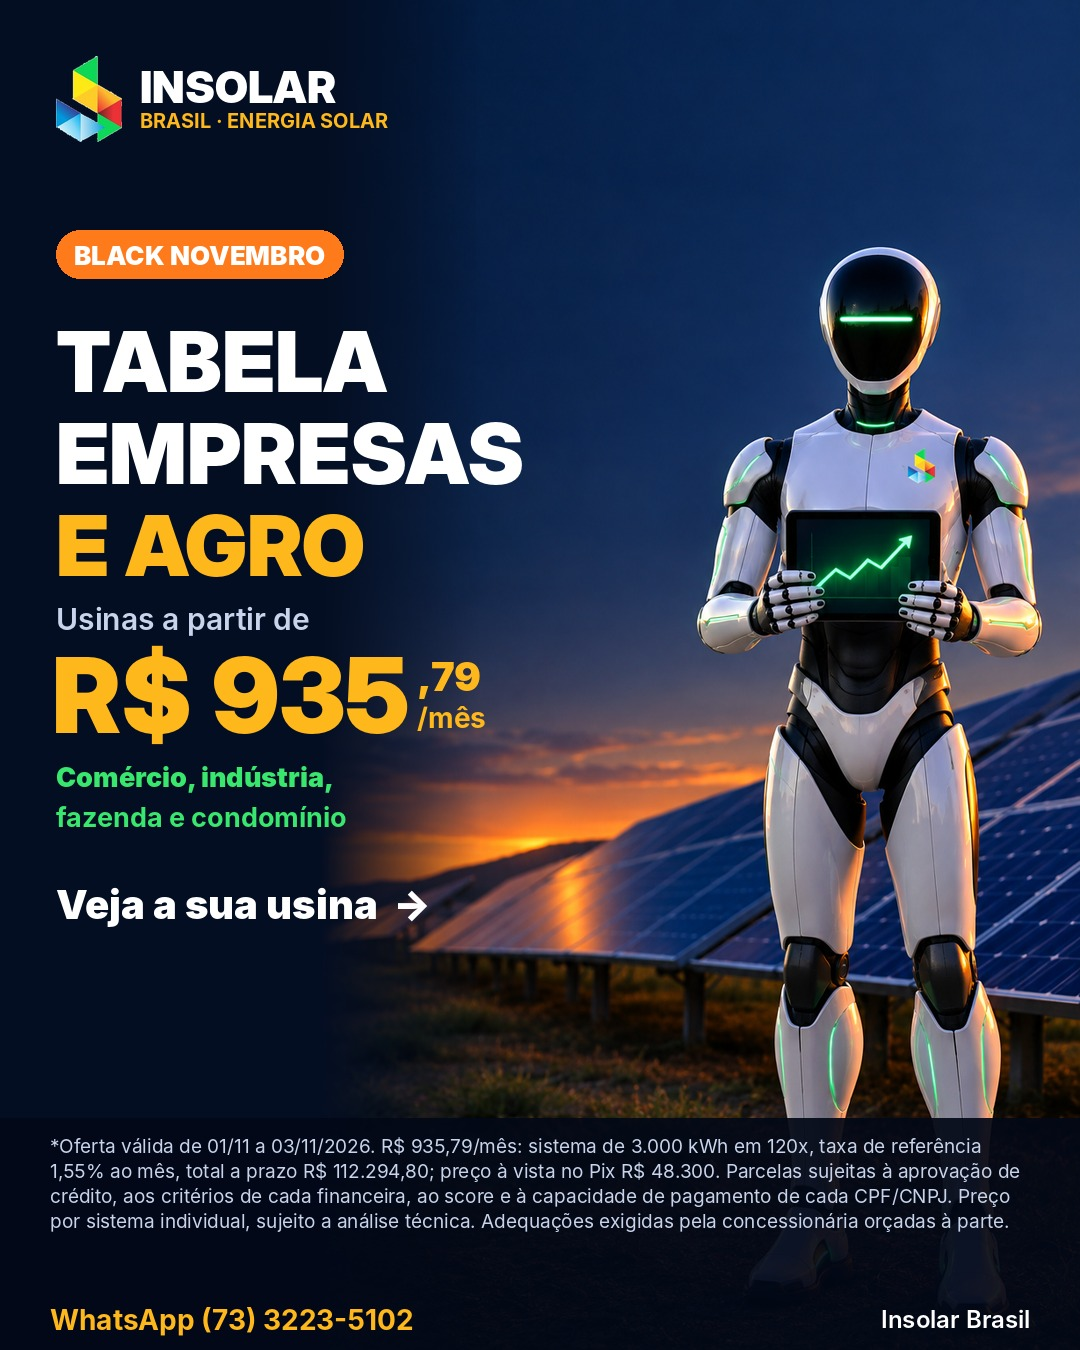
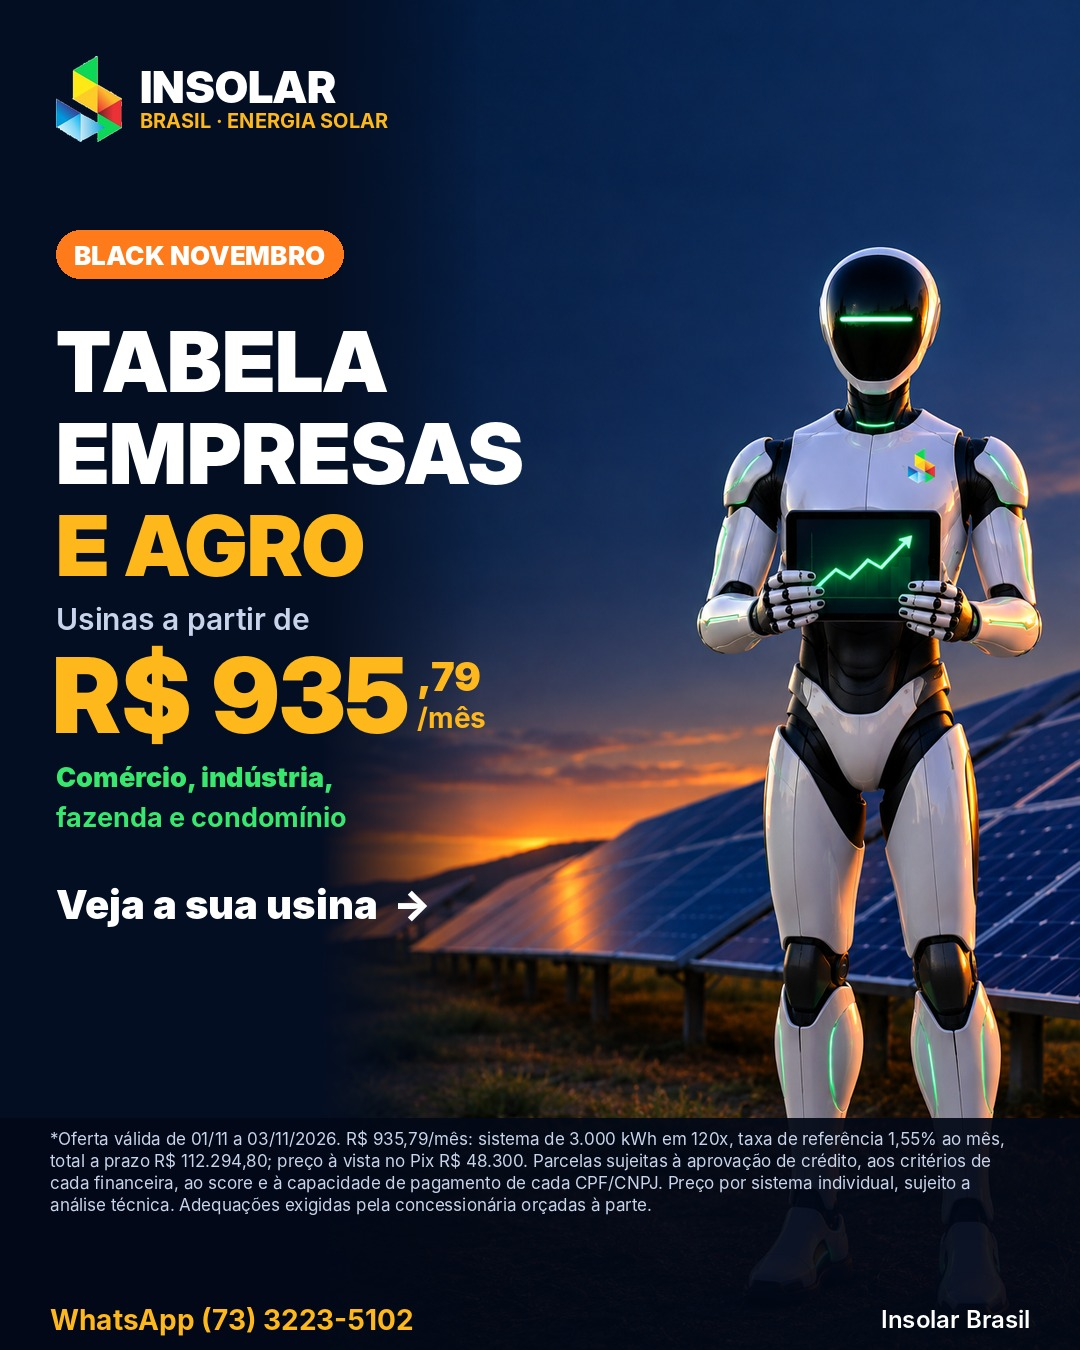
Empresas: 24x no cartão com juros e Cartão BNDES

Changed region(s): [[0.0306, 0.84, 0.9472, 0.9333]]

diff --git a/2026-11/precos/empresas_claro.py b/2026-11/precos/empresas_claro.py
@@ -45,9 +45,9 @@ def wrap(d,txt,f,maxw):
 def rodape(c,legal):
     ov=Image.new('RGBA',(W,H),(0,0,0,0)); od=ImageDraw.Draw(ov)
     od.rectangle([0,1118,W,H],fill=(2,8,22,235)); c.paste(ov,(0,0),ov)
-    d=ImageDraw.Draw(c); f=F('Inter-Regular.otf',19); y=1134
+    d=ImageDraw.Draw(c); f=F('Inter-Regular.otf',17); y=1128
     for ln in wrap(d,legal,f,W-100):
-        d.text((50,y),ln,font=f,fill=(200,212,235)); y+=25
+        d.text((50,y),ln,font=f,fill=(200,212,235)); y+=22
     d.text((50,H-48),'WhatsApp (73) 3223-5102',font=F('Inter-Bold.otf',28),fill=(255,184,28))
     d.text((W-50,H-46),'Insolar Brasil',font=F('Inter-SemiBold.otf',24),fill=(255,255,255),anchor='ra')
 
@@ -78,7 +78,9 @@ def card(n,k):
         y+=320
         d.text((X,y),'12x SEM JUROS no cartão',font=F('Inter-Black.otf',27),fill=GREEN)
         d.text((X,y+34),f"de R$ {brl(k['p12'])}",font=F('Inter-Bold.otf',30),fill=WHITE)
-        y+=96
+        d.text((X,y+72),'ou até 24x no cartão, com juros',font=F('Inter-SemiBold.otf',24),fill=SOFT)
+        d.text((X,y+100),'(aceitamos Cartão BNDES)',font=F('Inter-SemiBold.otf',24),fill=SOFT)
+        y+=146
     else:
         d.text((X,y),'12x SEM JUROS no cartão',font=F('Inter-Black.otf',30),fill=GREEN)
         fp=F('InterDisplay-Black.otf',112); inteiro,cent=brl(k['p12']).split(',')
@@ -97,7 +99,7 @@ def card(n,k):
     if k.get('p120'):
         legal+=(f"Parcelas sujeitas à aprovação de crédito, aos critérios de cada financeira, ao score e à capacidade de pagamento de cada CPF/CNPJ. "
                 f"Taxa de referência: 1,39% ao mês (24x a 84x) e 1,55% ao mês (120x); total em 120x: R$ {brl(k['p120']*120)}. ")
-    legal+=f"12x sem juros no cartão conforme limite disponível. Geração estimada de {k['kwh']:,} kWh por mês, varia com o local e a sombra.".replace(f"{k['kwh']:,}",f"{k['kwh']:,}".replace(',','.'))
+    legal+=f"12x sem juros no cartão conforme limite disponível; de 13x a 24x com juros da administradora do cartão; Cartão BNDES sujeito à aprovação do banco emissor. Geração estimada de {k['kwh']:,} kWh por mês, varia com o local e a sombra.".replace(f"{k['kwh']:,}",f"{k['kwh']:,}".replace(',','.'))
     rodape(c,legal)
     c.save(f'out/empresas_claro/{n:02d}_kit_{k["kwh"]}.jpg',quality=92)
 

diff --git a/2026-11/precos/empresas.py b/2026-11/precos/empresas.py
@@ -45,9 +45,9 @@ def wrap(d,txt,f,maxw):
 def rodape(c,legal):
     ov=Image.new('RGBA',(W,H),(0,0,0,0)); od=ImageDraw.Draw(ov)
     od.rectangle([0,1118,W,H],fill=(2,8,22,235)); c.paste(ov,(0,0),ov)
-    d=ImageDraw.Draw(c); f=F('Inter-Regular.otf',19); y=1134
+    d=ImageDraw.Draw(c); f=F('Inter-Regular.otf',17); y=1128
     for ln in wrap(d,legal,f,W-100):
-        d.text((50,y),ln,font=f,fill=SOFT); y+=25
+        d.text((50,y),ln,font=f,fill=SOFT); y+=22
     d.text((50,H-48),'WhatsApp (73) 3223-5102',font=F('Inter-Bold.otf',28),fill=GOLD)
     d.text((W-50,H-46),'Insolar Brasil',font=F('Inter-SemiBold.otf',24),fill=WHITE,anchor='ra')
 
@@ -78,7 +78,9 @@ def card(n,k):
         y+=320
         d.text((X,y),'12x SEM JUROS no cartão',font=F('Inter-Black.otf',27),fill=GREEN)
         d.text((X,y+34),f"de R$ {brl(k['p12'])}",font=F('Inter-Bold.otf',30),fill=WHITE)
-        y+=96
+        d.text((X,y+72),'ou até 24x no cartão, com juros',font=F('Inter-SemiBold.otf',24),fill=SOFT)
+        d.text((X,y+100),'(aceitamos Cartão BNDES)',font=F('Inter-SemiBold.otf',24),fill=SOFT)
+        y+=146
     else:
         d.text((X,y),'12x SEM JUROS no cartão',font=F('Inter-Black.otf',30),fill=GREEN)
         fp=F('InterDisplay-Black.otf',112); inteiro,cent=brl(k['p12']).split(',')
@@ -97,7 +99,7 @@ def card(n,k):
     if k.get('p120'):
         legal+=(f"Parcelas sujeitas à aprovação de crédito, aos critérios de cada financeira, ao score e à capacidade de pagamento de cada CPF/CNPJ. "
                 f"Taxa de referência: 1,39% ao mês (24x a 84x) e 1,55% ao mês (120x); total em 120x: R$ {brl(k['p120']*120)}. ")
-    legal+=f"12x sem juros no cartão conforme limite disponível. Geração estimada de {k['kwh']:,} kWh por mês, varia com o local e a sombra.".replace(f"{k['kwh']:,}",f"{k['kwh']:,}".replace(',','.'))
+    legal+=f"12x sem juros no cartão conforme limite disponível; de 13x a 24x com juros da administradora do cartão; Cartão BNDES sujeito à aprovação do banco emissor. Geração estimada de {k['kwh']:,} kWh por mês, varia com o local e a sombra.".replace(f"{k['kwh']:,}",f"{k['kwh']:,}".replace(',','.'))
     rodape(c,legal)
     c.save(f'out/empresas/{n:02d}_kit_{k["kwh"]}.jpg',quality=92)
 
